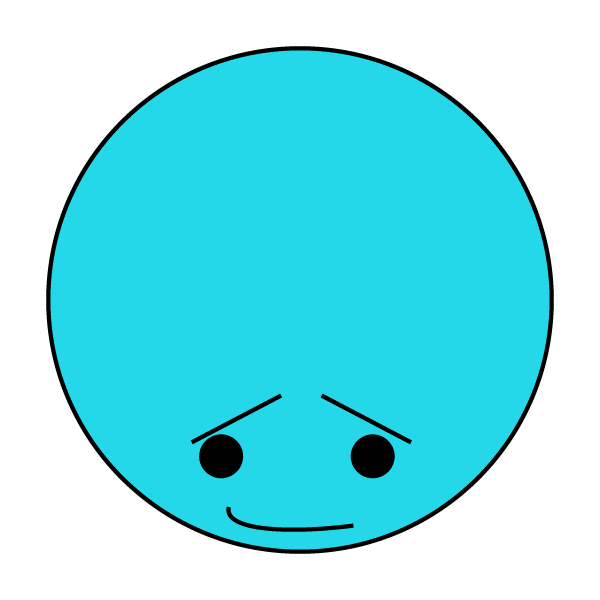
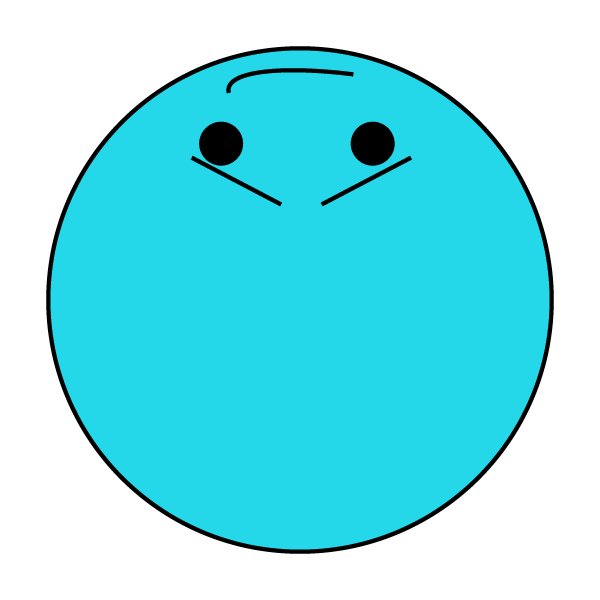
character animation

diff --git a/src/main.js b/src/main.js
@@ -1,4 +1,5 @@
 import KeyControls from './KeyControls.js';
+import Character from './Character.js';
 
 const canvas = document.querySelector('#board canvas');
 const ctx = canvas.getContext('2d');
@@ -11,9 +12,14 @@ let last = 0;
 let x = -50;
 let y = -50;
 const move = new KeyControls();
-const img = new Image();       
-img.src = './images/character/Character_base.png'; 
-img.addEventListener('load', draw,false);
+//const img = new Image();       
+//img.src = './images/character/Character_base.png'; 
+//img.addEventListener('load', draw,false);
+let angle = 0;
+const character = new Character('./images/character/Character_base.png');
+character.texture.addEventListener('load', draw,false);
+const px = character.pivot ? character.pivot.x : 0;
+const py = character.pivot ? character.pivot.y : 0;
 
 
 
@@ -25,28 +31,24 @@ function loopy(ms){
    last=t;
    //game logic code
 
-   x+=move.getX();
-   console.log(move.getX());
+   angle=move.getRotate(ctx,px,py,angle);
    y+=move.getY();
+   character.pivot.y +=move.getY();
+   console.log(character.pivot.y);
    if(!move.action){}
    deleteImg();
    draw();
+   //ctx.restore();
+   
 
 }
 requestAnimationFrame(loopy);
 
 function draw() {
-  //rainbow
-  /* for (let i = 0; i < 6; i++) {
-      
-      ctx.fillStyle = `hsl(${i * (250/6)}, 90%, 55%)`;
-      ctx.fillRect(0, i*20,200,20);  
-   }*/
    //circle
          
-   ctx.drawImage(img, x, y, 100,100); 
-   console.log(x +', '+y);
+   ctx.drawImage(character.texture, x, y, 100,100); 
 }
 function deleteImg(){
-   ctx.clearRect(-400,-300, w, h);
+   ctx.clearRect(-400,-300, w*2, h*2);
 }

diff --git a/src/KeyControls.js b/src/KeyControls.js
@@ -15,11 +15,25 @@ export default class KeyControls{
     get action(){
         return this.keys[32];
     }
-    getX(){
+    getRotate(ctx, px, py, angle){
+        const DegToRad = deg =>(Math.PI/180)*deg;
+        
         if(this.keys[37]||this.keys[65]){
+            ctx.save();
+            ctx.translate(px , py );  
+            // Perform the rotation  
+            ctx.rotate(DegToRad(angle));  
+            // Translate back to the top left of our image  
+            ctx.translate(-px, -py);
             return -1;
         }
         if(this.keys[39]||this.keys[68]){
+            ctx.save();
+            ctx.translate(px, py);  
+            // Perform the rotation  
+            ctx.rotate(DegToRad(angle));  
+            // Translate back to the top left of our image  
+            ctx.translate(-px, -py);
             return 1;
         }
         return 0;
@@ -33,5 +47,6 @@ export default class KeyControls{
         }
         return 0;
     }
+    
 
 }

diff --git a/src/Character.js b/src/Character.js
@@ -1,0 +1,23 @@
+import KeyControls from './KeyControls.js';
+
+let character = new KeyControls();
+
+export default class Character{
+    constructor(texture){
+        this.texture = new Image();
+        this.texture.src = texture;
+        this.pos = {x:0,y:0};
+        this.anchor = {x:0, y:0};
+        this.scale = {x:1, y:1};
+        this.pivot = {x:0, y:0};
+    }
+    moveChar(){
+        let x=character.getX();
+        let y=character.getY();
+        this.pos.x = x;
+        this.pos.y = y;
+    }
+    rotateChar(){
+        
+    }
+}
